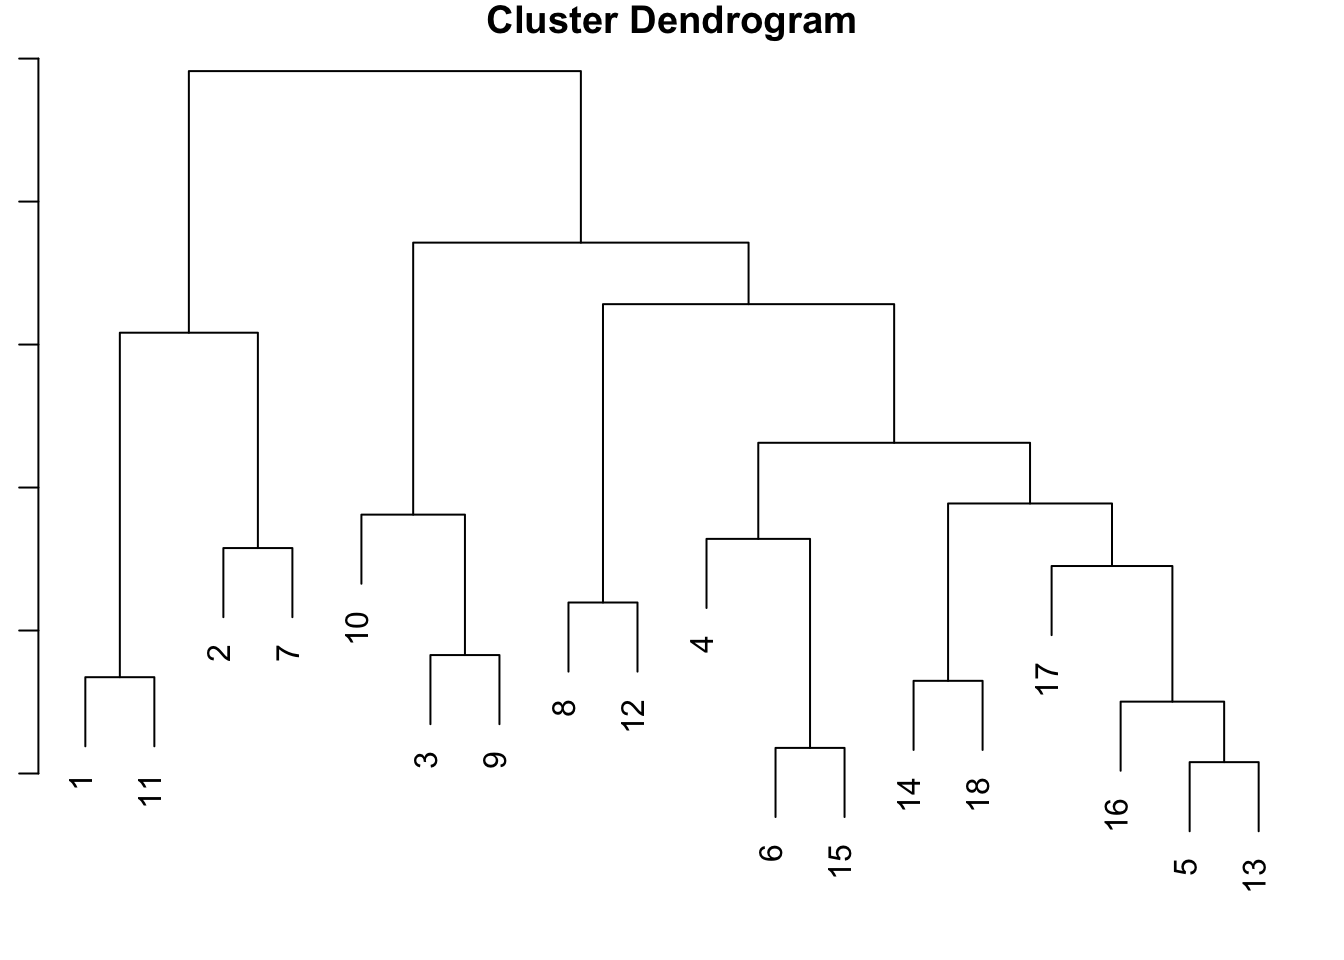
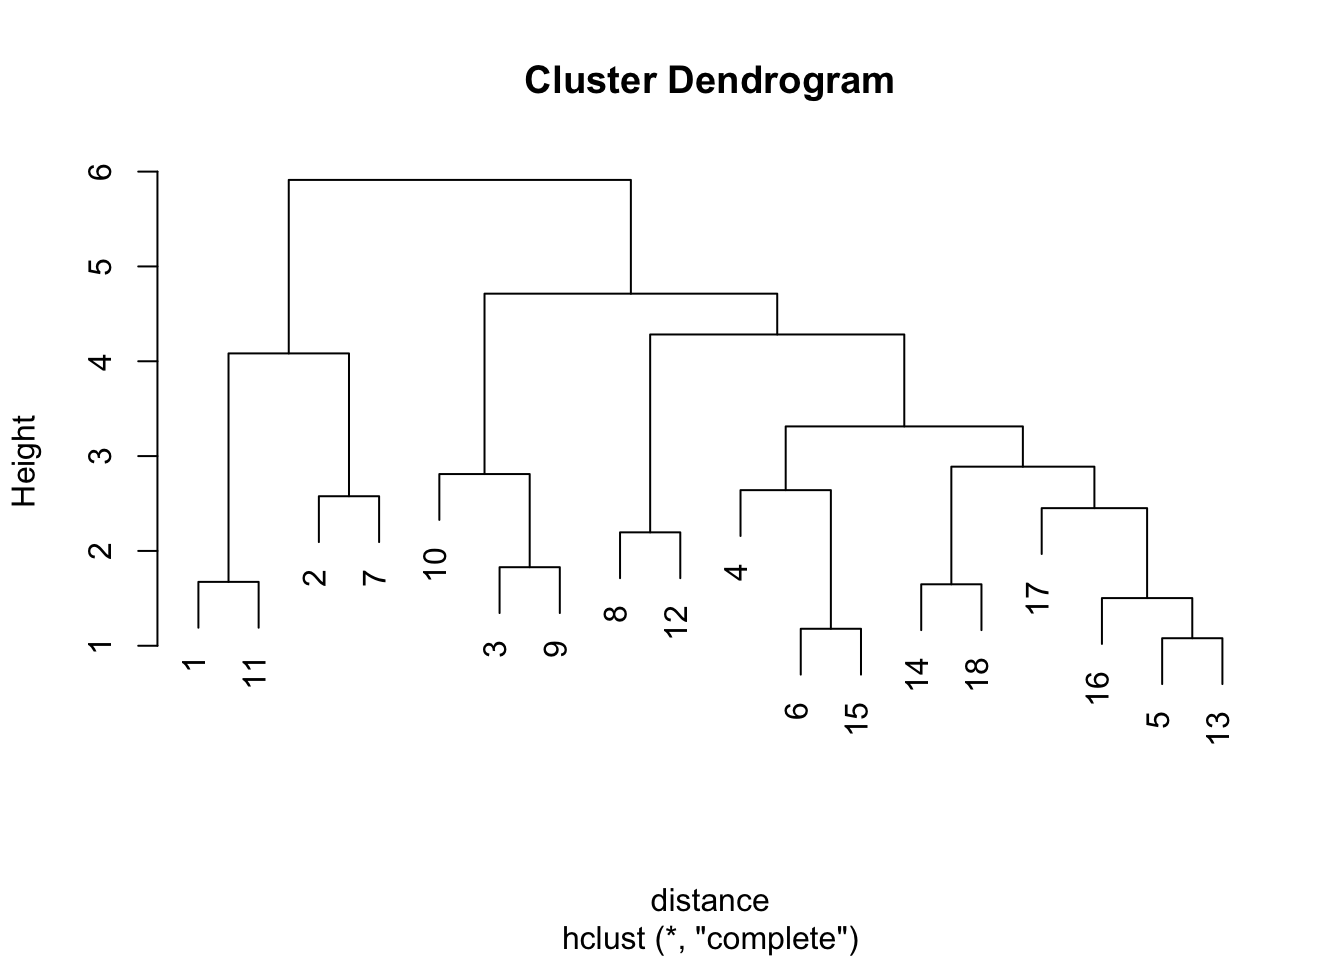
week 5

diff --git a/docs/class_notes/week_5.html b/docs/class_notes/week_5.html
@@ -257,6 +257,7 @@ code span.wa { color: #60a0b0; font-weight: bold; font-style: italic; } /* Warni
   <li><a href="#k-means-clustering-1" id="toc-k-means-clustering-1" class="nav-link" data-scroll-target="#k-means-clustering-1">k-means clustering</a></li>
   </ul></li>
   <li><a href="#conditional-inference-tree-with-party" id="toc-conditional-inference-tree-with-party" class="nav-link" data-scroll-target="#conditional-inference-tree-with-party">Conditional Inference Tree with Party</a></li>
+  <li><a href="#christmas-or-not" id="toc-christmas-or-not" class="nav-link" data-scroll-target="#christmas-or-not">Christmas or Not?</a></li>
   </ul></li>
   </ul>
 <div class="toc-actions"><div><i class="bi bi-github"></i></div><div class="action-links"><p><a href="https://github.com/shanahdt/corpus-studies/edit/main/class_notes/week_5.qmd" class="toc-action">Edit this page</a></p><p><a href="https://github.com/shanahdt/corpus-studies/issues/new" class="toc-action">Report an issue</a></p></div></div></nav>
@@ -741,7 +742,7 @@ Number of Fisher Scoring iterations: 4</code></pre>
 <p>And we can plot the data like this:</p>
 <div class="cell">
 <div class="sourceCode cell-code" id="cb48"><pre class="sourceCode r code-with-copy"><code class="sourceCode r"><span id="cb48-1"><a href="#cb48-1" aria-hidden="true" tabindex="-1"></a><span class="do">### helps with the size of the image.</span></span>
-<span id="cb48-2"><a href="#cb48-2" aria-hidden="true" tabindex="-1"></a><span class="fu">par</span>(<span class="at">mar =</span> <span class="fu">c</span>(<span class="dv">1</span>, <span class="dv">1</span>, <span class="dv">1</span>, <span class="dv">1</span>))</span>
+<span id="cb48-2"><a href="#cb48-2" aria-hidden="true" tabindex="-1"></a><span class="co"># par(mar = c(1, 1, 1, 1))</span></span>
 <span id="cb48-3"><a href="#cb48-3" aria-hidden="true" tabindex="-1"></a></span>
 <span id="cb48-4"><a href="#cb48-4" aria-hidden="true" tabindex="-1"></a><span class="do">### creates the cluster</span></span>
 <span id="cb48-5"><a href="#cb48-5" aria-hidden="true" tabindex="-1"></a>df.hclust <span class="ot">&lt;-</span> <span class="fu">hclust</span>(distance)</span>
@@ -828,7 +829,7 @@ Number of Fisher Scoring iterations: 4</code></pre>
 <blockquote class="blockquote">
 <p>aims to partition the points into <em>k</em> groups such that the sum of squares from points to the assigned cluster centres is minimized. At the minimum, all cluster centres are at the mean of their Voronoi sets (the set of data points which are nearest to the cluster centre).</p>
 </blockquote>
-<p>There are a few algorithms to pick from. R uses the HArtigan and Wong (1979) algorithm by default.</p>
+<p>There are a few algorithms to pick from. R uses the Hartigan and Wong (1979) algorithm by default.</p>
 <div class="cell">
 <div class="sourceCode cell-code" id="cb59"><pre class="sourceCode r code-with-copy"><code class="sourceCode r"><span id="cb59-1"><a href="#cb59-1" aria-hidden="true" tabindex="-1"></a><span class="do">###split it into three groups</span></span>
 <span id="cb59-2"><a href="#cb59-2" aria-hidden="true" tabindex="-1"></a><span class="fu">set.seed</span>(<span class="dv">123</span>)</span>
@@ -1112,6 +1113,34 @@ Node number 47: 399 observations
 <span id="cb79-3"><a href="#cb79-3" aria-hidden="true" tabindex="-1"></a>   <span class="at">main=</span><span class="st">"Regression Tree for Pavement/Weezer"</span>)</span></code><button title="Copy to Clipboard" class="code-copy-button"><i class="bi"></i></button></pre></div>
 <div class="cell-output-display">
 <p><img src="week_5_files/figure-html/unnamed-chunk-37-2.png" class="img-fluid" width="672"></p>
+</div>
+</div>
+</section>
+<section id="christmas-or-not" class="level2">
+<h2 class="anchored" data-anchor-id="christmas-or-not">Christmas or Not?</h2>
+<div class="cell">
+<div class="sourceCode cell-code" id="cb80"><pre class="sourceCode r code-with-copy"><code class="sourceCode r"><span id="cb80-1"><a href="#cb80-1" aria-hidden="true" tabindex="-1"></a>christmas <span class="ot">&lt;-</span> <span class="fu">get_playlist_audio_features</span>(<span class="st">""</span>, <span class="st">"5OP7itTh52BMfZS1DJrdlv"</span>)</span>
+<span id="cb80-2"><a href="#cb80-2" aria-hidden="true" tabindex="-1"></a>christmas<span class="sc">$</span>christmas <span class="ot">&lt;-</span> <span class="st">"yes"</span></span>
+<span id="cb80-3"><a href="#cb80-3" aria-hidden="true" tabindex="-1"></a></span>
+<span id="cb80-4"><a href="#cb80-4" aria-hidden="true" tabindex="-1"></a>not <span class="ot">&lt;-</span> <span class="fu">get_playlist_audio_features</span>(<span class="st">""</span>, <span class="st">"6i2Qd6OpeRBAzxfscNXeWp"</span>)</span>
+<span id="cb80-5"><a href="#cb80-5" aria-hidden="true" tabindex="-1"></a>not<span class="sc">$</span>christmas <span class="ot">&lt;-</span> <span class="st">"no"</span></span>
+<span id="cb80-6"><a href="#cb80-6" aria-hidden="true" tabindex="-1"></a>christmas_not <span class="ot">&lt;-</span><span class="fu">rbind</span>(christmas, not)</span>
+<span id="cb80-7"><a href="#cb80-7" aria-hidden="true" tabindex="-1"></a></span>
+<span id="cb80-8"><a href="#cb80-8" aria-hidden="true" tabindex="-1"></a>fit <span class="ot">&lt;-</span> <span class="fu">rpart</span>(<span class="fu">as.factor</span>(christmas) <span class="sc">~</span> danceability <span class="sc">+</span> valence <span class="sc">+</span> tempo <span class="sc">+</span> liveness <span class="sc">+</span> tempo <span class="sc">+</span> mode, <span class="at">data=</span>christmas_not)</span>
+<span id="cb80-9"><a href="#cb80-9" aria-hidden="true" tabindex="-1"></a></span>
+<span id="cb80-10"><a href="#cb80-10" aria-hidden="true" tabindex="-1"></a><span class="co"># plot tree </span></span>
+<span id="cb80-11"><a href="#cb80-11" aria-hidden="true" tabindex="-1"></a><span class="fu">rpart.plot</span>(fit, <span class="at">uniform=</span><span class="cn">TRUE</span>, </span>
+<span id="cb80-12"><a href="#cb80-12" aria-hidden="true" tabindex="-1"></a>   <span class="at">main=</span><span class="st">"Regression Tree for Christmas/Not"</span>)</span></code><button title="Copy to Clipboard" class="code-copy-button"><i class="bi"></i></button></pre></div>
+<div class="cell-output-display">
+<p><img src="week_5_files/figure-html/unnamed-chunk-38-1.png" class="img-fluid" width="672"></p>
+</div>
+</div>
+<div class="cell">
+<div class="sourceCode cell-code" id="cb81"><pre class="sourceCode r code-with-copy"><code class="sourceCode r"><span id="cb81-1"><a href="#cb81-1" aria-hidden="true" tabindex="-1"></a><span class="fu">table</span>(not<span class="sc">$</span>mode)</span></code><button title="Copy to Clipboard" class="code-copy-button"><i class="bi"></i></button></pre></div>
+<div class="cell-output cell-output-stdout">
+<pre><code>
+ 0  1 
+33 81 </code></pre>
 </div>
 </div>
 
